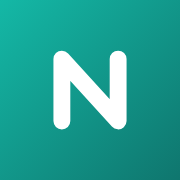
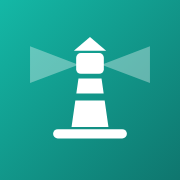
로고와 파비콘을 등대 모양으로
글자 N 대신 트래픽을 비추고 길을 안내하는 등대를 쓴다. 화면 왼쪽 위
로고와 로그인 화면 로고, 파비콘(SVG·ICO·PNG, apple-touch-icon)이
같은 모양을 쓴다.

Claude-Session: https://claude.ai/code/session_01Xx9UjjUT6RUAG9rb4FJ34L

Changed region(s): [[0.1667, 0.1944, 0.8333, 0.7778]]

diff --git a/src/main/resources/templates/fragments/layout.html b/src/main/resources/templates/fragments/layout.html
@@ -16,7 +16,7 @@
 <body>
 <th:block th:fragment="nav">
 <nav class="nav">
-    <a class="brand" th:href="@{/}"><span class="logo" aria-hidden="true">N</span><span>nginx manager</span></a>
+    <a class="brand" th:href="@{/}"><span class="logo" aria-hidden="true"><svg viewBox="0 0 64 64"><path d="M27 21L6 13v16z M37 21l21-8v16z" opacity=".35"/><path d="M32 9l-7 6h14z"/><rect x="26" y="16" width="12" height="9" rx="2"/><path d="M27 27h10l.93 6.5H26.07zM25.64 36.5h12.72L40 48H24z"/><rect x="16" y="49" width="32" height="4" rx="2"/></svg></span><span>nginx manager</span></a>
     <!-- 좁은 화면에서만 보이는 메뉴 버튼. 스크립트가 없으면 메뉴를 가로로 펼쳐 둔다 -->
     <button type="button" class="nav-toggle" aria-expanded="false" aria-controls="nav-menu" th:aria-label="#{nav.menu}"><svg class="icon icon-menu" viewBox="0 0 24 24" aria-hidden="true"><path d="M4 6h16M4 12h16M4 18h16"/></svg><svg class="icon icon-close" viewBox="0 0 24 24" aria-hidden="true"><path d="M6 6l12 12M18 6L6 18"/></svg><span class="count" th:if="${currentUser != null and currentUser.canEdit() and pendingCount > 0}" th:text="${pendingCount}">2</span></button>
     <div class="nav-links" id="nav-menu">
@@ -66,7 +66,7 @@
     <button type="button" class="link theme-toggle" th:title="#{nav.theme}" th:aria-label="#{nav.theme}"><svg class="icon icon-moon" viewBox="0 0 24 24" aria-hidden="true"><path d="M21 12.8A9 9 0 1 1 11.2 3a7 7 0 0 0 9.8 9.8z"/></svg><svg class="icon icon-sun" viewBox="0 0 24 24" aria-hidden="true"><circle cx="12" cy="12" r="4"/><path d="M12 2v2M12 20v2M4.9 4.9l1.4 1.4M17.7 17.7l1.4 1.4M2 12h2M20 12h2M4.9 19.1l1.4-1.4M17.7 6.3l1.4-1.4"/></svg></button>
 </div>
 <aside class="auth-brand" th:fragment="authBrand">
-    <div class="auth-logo"><span class="logo" aria-hidden="true">N</span><span>nginx manager</span></div>
+    <div class="auth-logo"><span class="logo" aria-hidden="true"><svg viewBox="0 0 64 64"><path d="M27 21L6 13v16z M37 21l21-8v16z" opacity=".35"/><path d="M32 9l-7 6h14z"/><rect x="26" y="16" width="12" height="9" rx="2"/><path d="M27 27h10l.93 6.5H26.07zM25.64 36.5h12.72L40 48H24z"/><rect x="16" y="49" width="32" height="4" rx="2"/></svg></span><span>nginx manager</span></div>
     <p class="auth-tagline" th:text="#{login.tagline}">nginx 설정을 웹에서 안전하게 바꾸고 적용합니다.</p>
     <ul class="auth-features">
         <li><svg class="icon" viewBox="0 0 24 24" aria-hidden="true"><path d="M20 6L9 17l-5-5"/></svg><span th:text="#{login.feature.check}">적용하기 전에 nginx -t로 문법을 검사합니다</span></li>

diff --git a/src/main/resources/static/css/app.css b/src/main/resources/static/css/app.css
@@ -86,6 +86,7 @@ li { margin: .25rem 0; }
     background: linear-gradient(135deg, #14b8a6, #0f766e); color: #fff; font-weight: 800; font-size: .95rem;
     box-shadow: inset 0 0 0 1px rgba(255, 255, 255, .15);
 }
+.logo svg { width: 88%; height: 88%; fill: #fff; }
 .nav-toggle { display: none; }
 .nav-toggle .icon-close, .nav.open .nav-toggle .icon-menu { display: none; }
 .nav.open .nav-toggle .icon-close { display: block; }
